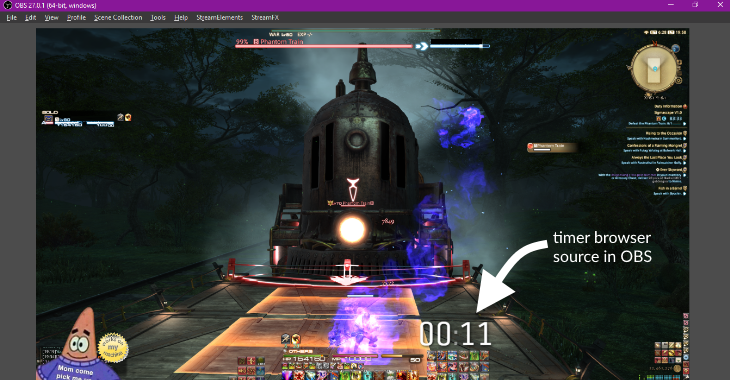
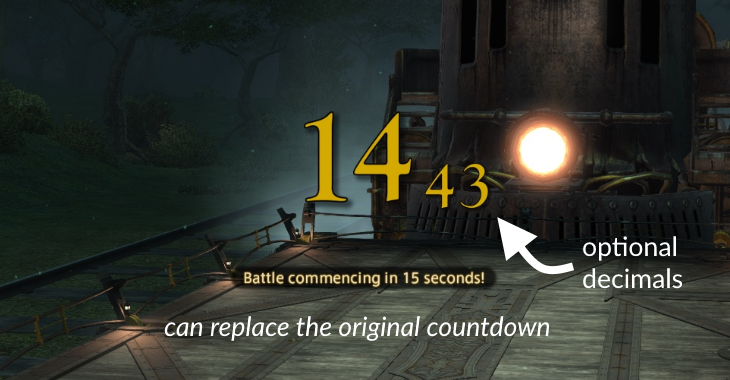
update README.md and images

diff --git a/Ui/Settings.cs b/Ui/Settings.cs
@@ -418,8 +418,6 @@ namespace EngageTimer.UI
                 if (_configuration.CountdownTexturePreset == choices[i]) currentTexture = i;
             }
 
-            // texturePath = "C:\\Users\\jdpep\\OneDrive\\FFXIV\\Discord\\New folder";
-
             ImGui.BeginGroup();
             ImGui.PushItemWidth(200f);
             choiceString += TransId("Settings_CountdownTab_Texture_custom");

diff --git a/README.md b/README.md
@@ -3,30 +3,32 @@
 This plugin for the [FFXIV plugin platform Dalamud](https://github.com/goatcorp/FFXIVQuickLauncher)
 can display a countdown on screen in the style of the original one, plus a stopwatch tracking the combat duration.
 
-The original motivation for this plugin was to improve on the
-original ["Acurate Countdown" plugin by Haplo064](https://github.com/Haplo064/Europe)
-and make it synchronize somehow with my OBS recording setup.
+The original motivation for this plugin was to do something like 
+["Acurate Countdown" plugin by Haplo064](https://github.com/Haplo064/Europe)
+but with a big stopwatch timer for my recordings.
 
 ## Countdown
 
 Adds the missing numbers in the standard countdown thing!
 
-You can also enable the "ticking" sound if you want.
-
 ![Countdown example](Doc/countdown.gif)
 
-\* can now hide the in-game countdown so it stays consistant
+This examples showcases the bundled number styles with the hide original timer option enabled.
+
+You can also enable the "ticking" sound if you want.
 
 ### Make your own number textures
 
 Select `Custom` as Style in the settings for Big Countdown and set your own texture folder !
 
-Requirements :
+**Requirements :**
 
 - Images must be PNG
 - Files must be names from 0.png to 9.png
 - Images can be any width
 - Images will top-aligned, so I recommend using the same height for all numbers
+
+[Download example custom textures](Doc/custom_example.zip) 
 
 ## Stopwatch
 
